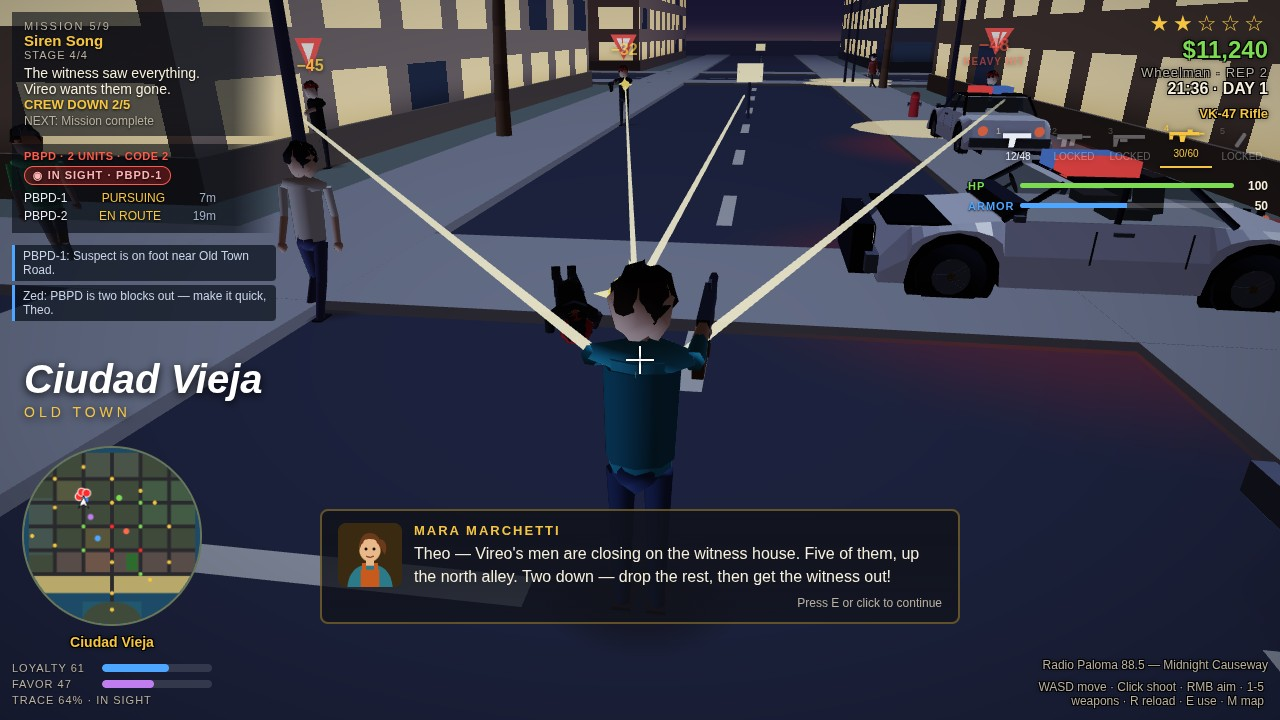
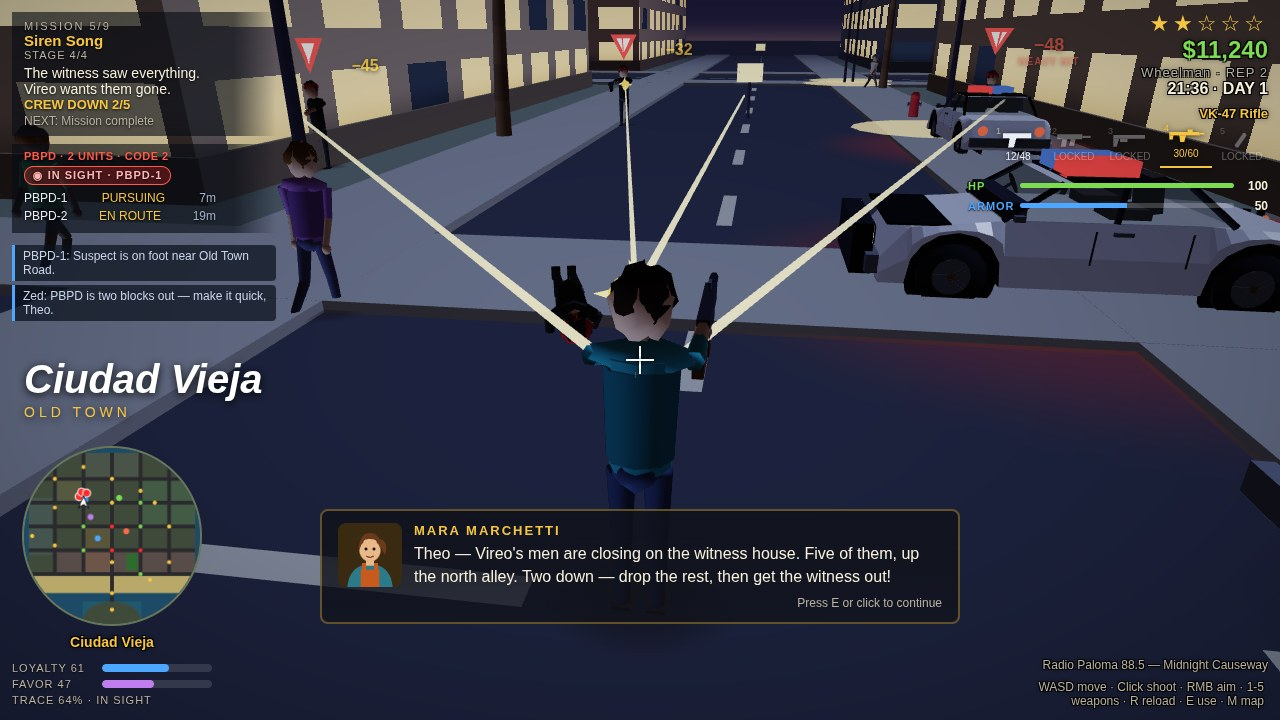
Fix combat damage numbers hidden behind enemy marker triangles
Floating damage numbers were centred on the enemy's projected anchor, the same screen x as the red marker triangle hanging above its head — the -48 HEAVY HIT was ~50% covered. Offset damage numbers +55px right of the anchor (clamped to the viewport) so they clear the triangle and the widest number div; re-shot 02-combat.jpg. CDP 28/28, dossier 975,670 B.

diff --git a/game/src/hud.js b/game/src/hud.js
@@ -235,12 +235,20 @@ export function updateHUD(view) {
     if (el['score-popups'].innerHTML !== html) el['score-popups'].innerHTML = html;
   }
   // Damage numbers: projected screen positions, rising + fading.
+  // Offset +55px right of the anchor: the enemy's red marker triangle
+  // hangs directly above its head at the same screen x, and a number
+  // centred on the anchor hides behind it (the −48 HEAVY HIT was ~50%
+  // covered). The shift clears the triangle (half-width ~17px) plus the
+  // widest number div, and is clamped so numbers near the right edge
+  // never clip off-screen.
   if (el['damage-numbers']) {
     const nums = (view.damageNumbers || []).filter((n) => n.age < 1);
+    const vw = window.innerWidth || 1280;
     const html = nums.map((n) => {
       const op = (1 - n.age).toFixed(2);
       const top = (n.sy - n.age * 24).toFixed(0);
-      return '<div class="dmg-num' + (n.sub ? ' heavy' : '') + '" style="left:' + n.sx.toFixed(0) + 'px;top:' + top + 'px;opacity:' + op + '">'
+      const left = Math.min(n.sx + 55, vw - 40).toFixed(0);
+      return '<div class="dmg-num' + (n.sub ? ' heavy' : '') + '" style="left:' + left + 'px;top:' + top + 'px;opacity:' + op + '">'
         + escapeHtml(n.text) + (n.sub ? '<span class="dmg-sub">' + escapeHtml(n.sub) + '</span>' : '') + '</div>';
     }).join('');
     if (el['damage-numbers'].innerHTML !== html) el['damage-numbers'].innerHTML = html;
